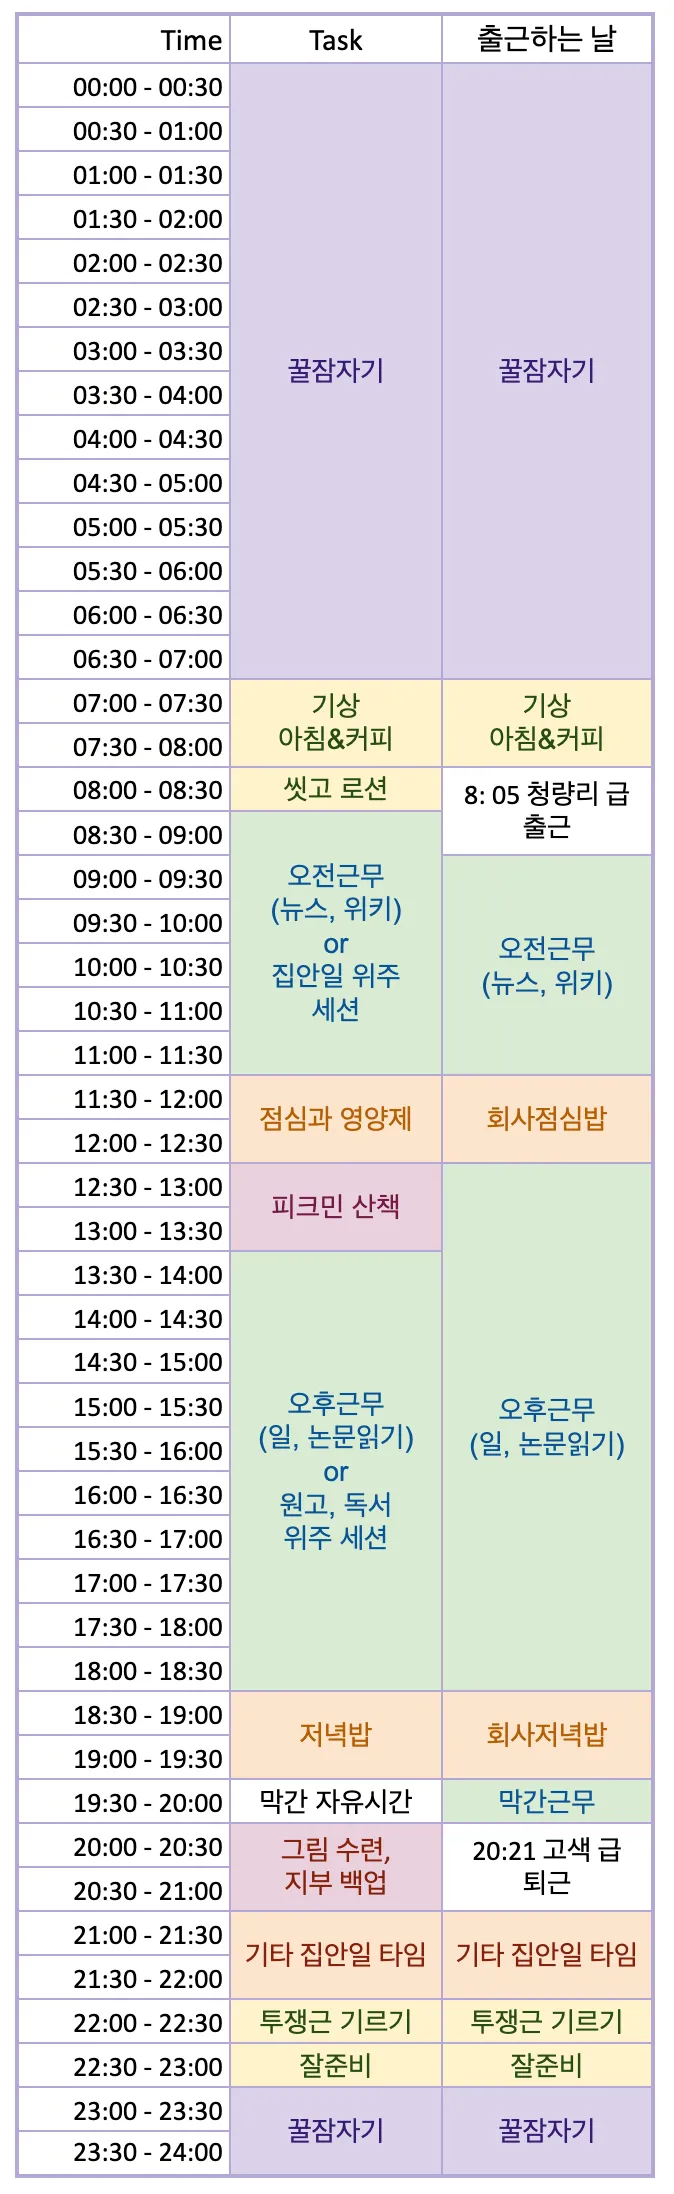
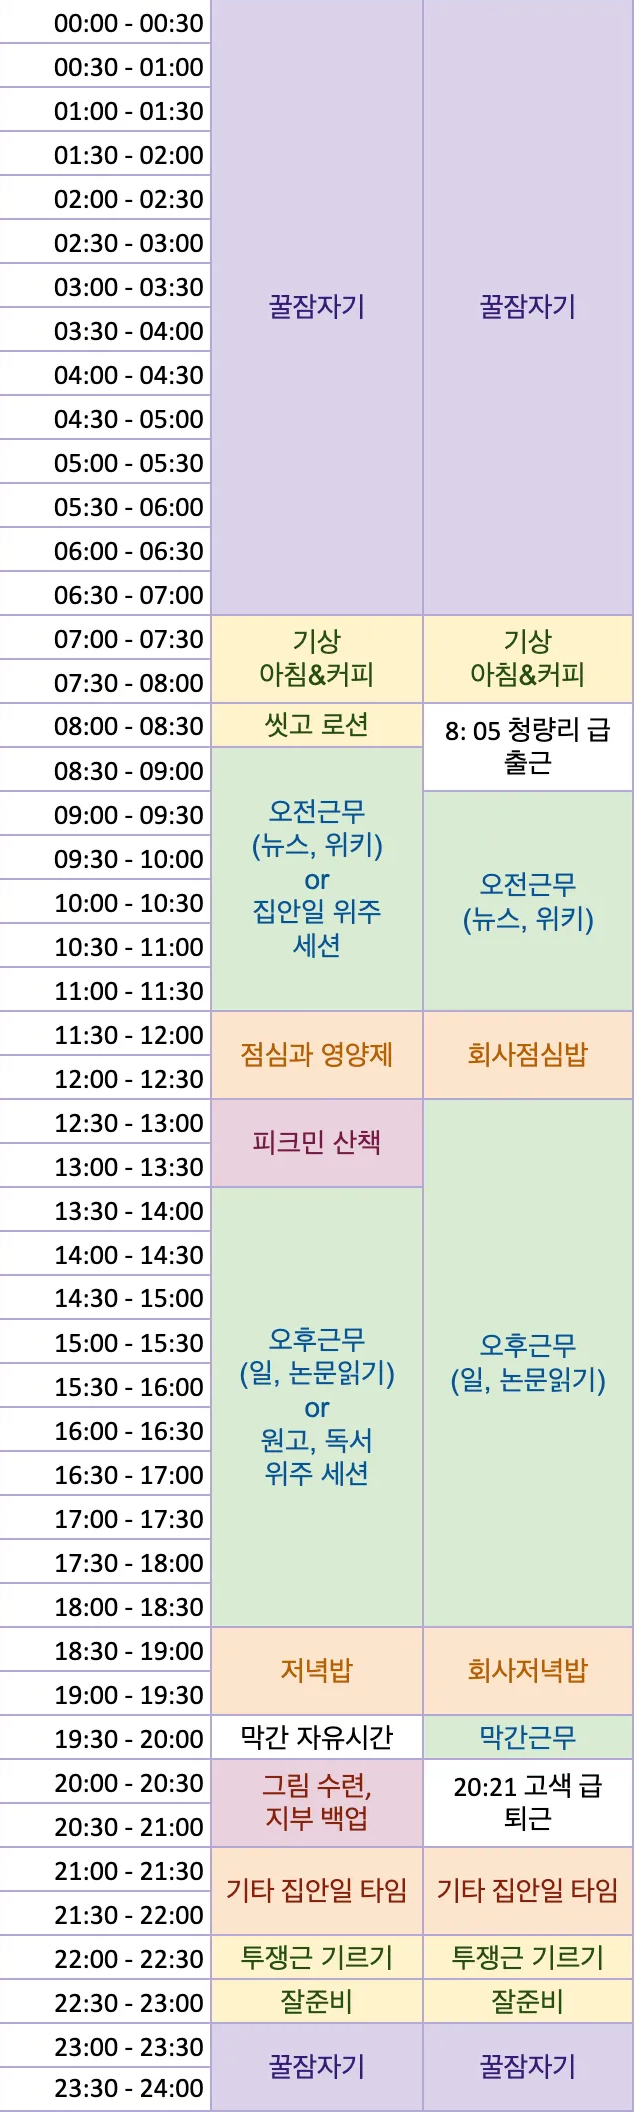
v2

Changed region(s): [[0.0, 0.0, 1.0, 1.0], [0.4196, 0.125, 0.5694, 0.1875], [0.7492, 0.125, 0.8691, 0.1875]]

diff --git a/index.html b/index.html
@@ -1,13 +1,20 @@
 <!DOCTYPE html>
-<html lang="en">
+<html lang="ko">
 <head>
     <meta charset="UTF-8">
     <meta name="viewport" content="width=device-width, initial-scale=1.0">
     <title>Timeline</title>
+    <link rel="stylesheet" href="base.css">
 </head>
 <body>
-    <h1 id="current-time"></h1>
-    <img id="image" src="image.png" alt="Image">
+    <div style="display: flex; flex-direction: column;">
+        <h1 id="current-time"></h1>
+        <img id="header" src="header.png" alt="Image">
+        <div style="position: relative; display: inline-block;"></div>
+            <img id="image" src="image.png" alt="Image">
+            <hr id="now">
+        </div>    
+    </div>
     <script src="script.js"></script>
 </body>
 </html>

diff --git a/script.js b/script.js
@@ -2,14 +2,8 @@ document.addEventListener("DOMContentLoaded", function() {
     const img = document.getElementById('image');
     if (!img) return;
 
-    const line = document.createElement('div');
-    line.style.position = 'absolute';
-    line.style.width = '100%';
-    line.style.height = '5px';
-    line.style.backgroundColor = 'black';
-    line.style.top = '0px';
-    img.parentElement.style.position = 'relative';
-    img.parentElement.appendChild(line);
+    const line = document.getElementById('now');
+    line.style.width = `${img.clientWidth}px`;
 
     function updateLinePosition() {
         const now = new Date();

diff --git a/base.css b/base.css
@@ -1,0 +1,8 @@
+hr {
+    border: 2px solid black;
+    position: absolute;
+    top: 0;
+    left: 0;
+    width: 100%;
+    box-sizing: border-box;
+}
